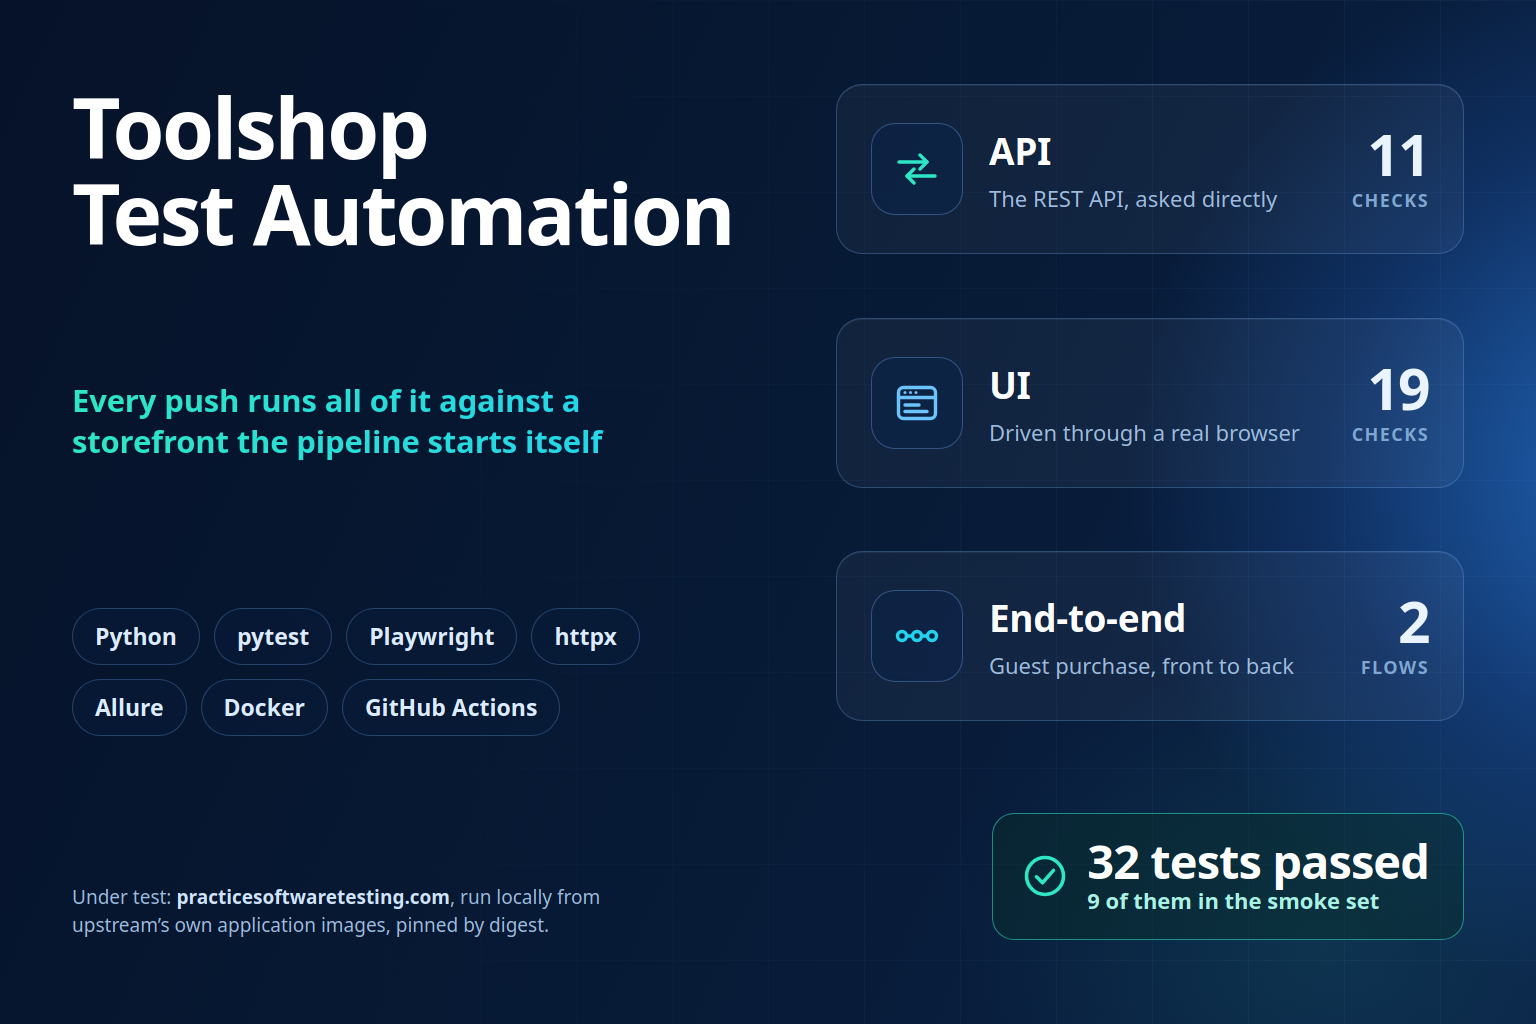
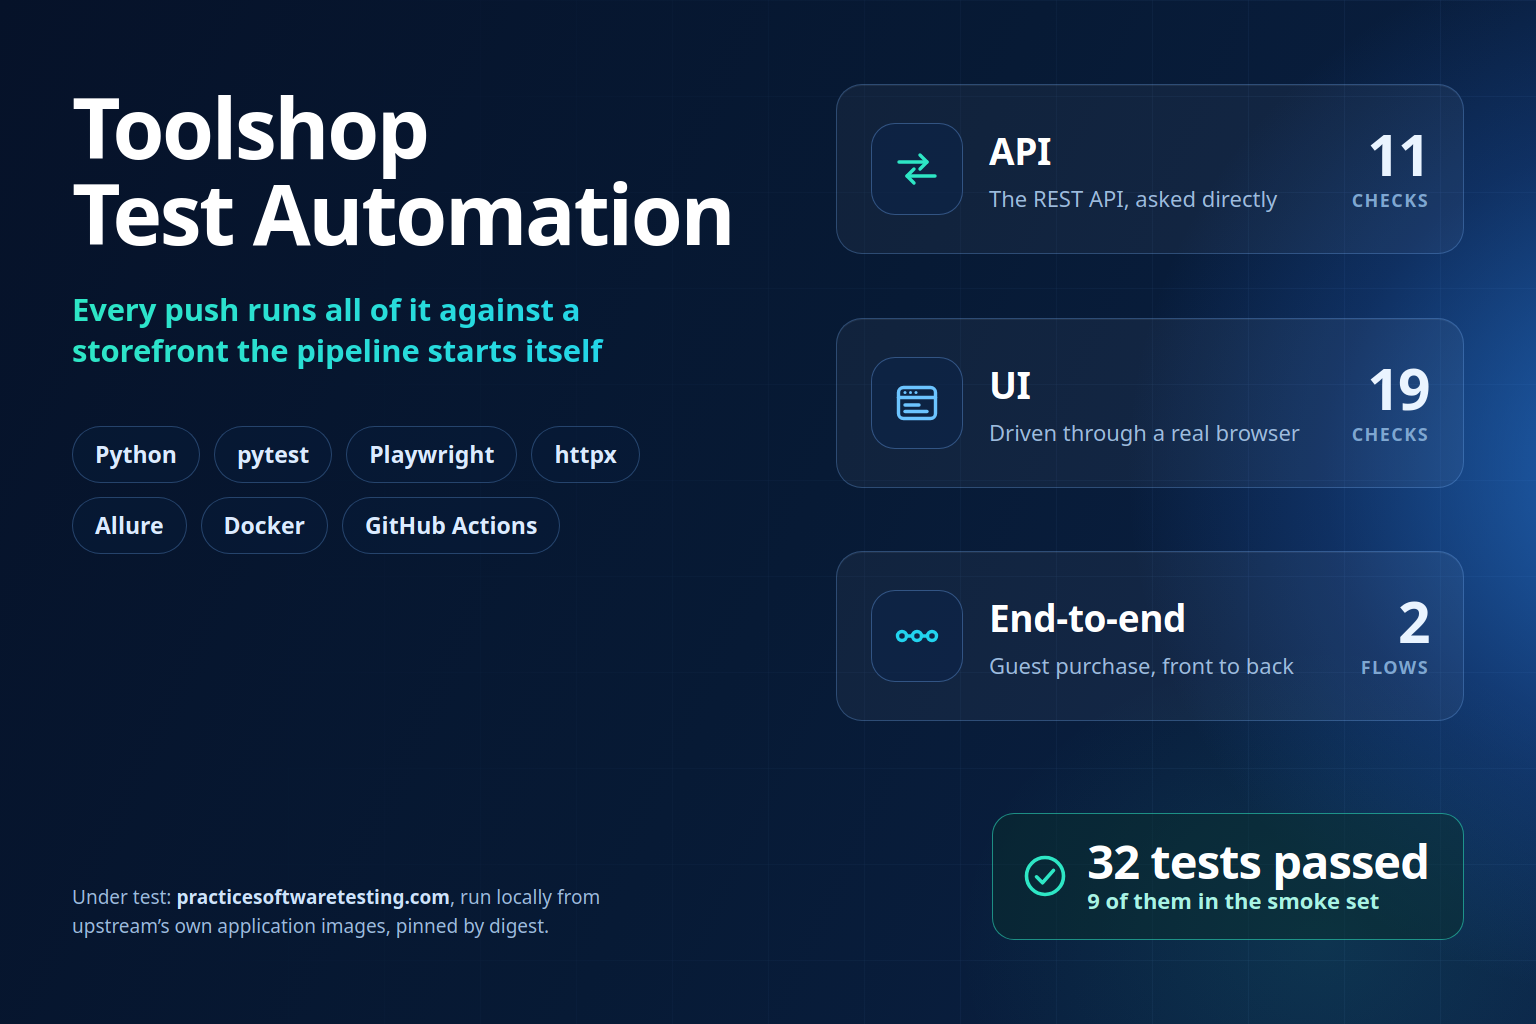
Tighten the cover's left column vertical rhythm
justify-content: space-between smeared the column's leftover height evenly
across all three gaps between the headline, the claim, the chips and the
byline, and the two biggest gaps already carried the largest margins — the
one between the teal claim and the tech pills read as dead air, while the
right column stayed tight. The headline, claim and chips now pack together
at their own fixed margins, and only the byline's margin-top: auto absorbs
the leftover height, pushing it to the bottom in one deliberate gap instead
of three uneven ones. No content added or removed.

Re-exported with scripts/make-assets.py; the PNG is still exactly 1536x1024,
and reads correctly both full size and at about 320px wide.

diff --git a/showcase/assets/cover.html b/showcase/assets/cover.html
@@ -74,10 +74,12 @@
     flex: none;
     display: flex;
     flex-direction: column;
-    justify-content: space-between;
-    /* Stretched by .sheet to the full padded height and spread top to
-       bottom, so the same four lines that used to sit as a centred island
-       now use the whole field instead of leaving a band above and below. */
+    /* Stretched by .sheet to the full padded height. The headline, the claim
+       and the chips sit packed together at their own margins below, and only
+       .aut's auto top margin absorbs the leftover height, pushing it to the
+       bottom — one deliberate gap instead of `justify-content: space-between`
+       smearing that same leftover space across all three, which read as dead
+       air between the claim and the chips. */
   }
 
   h1 {
@@ -123,7 +125,7 @@
   }
 
   .aut {
-    margin-top: 56px;
+    margin-top: auto;
     font-size: 19px;
     line-height: 1.5;
     color: var(--muted);
